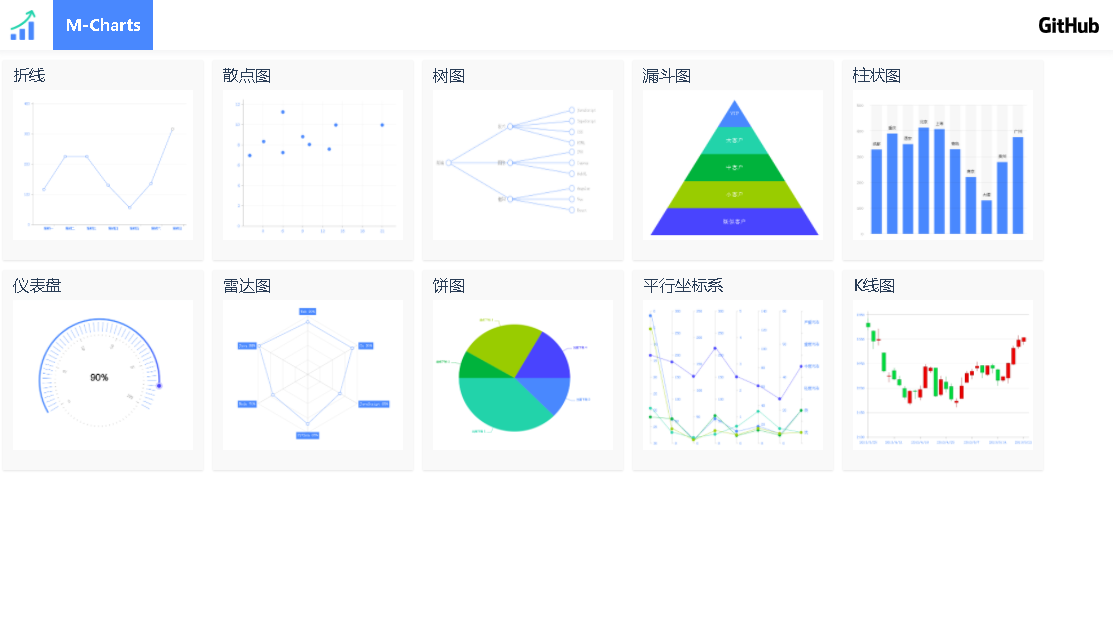
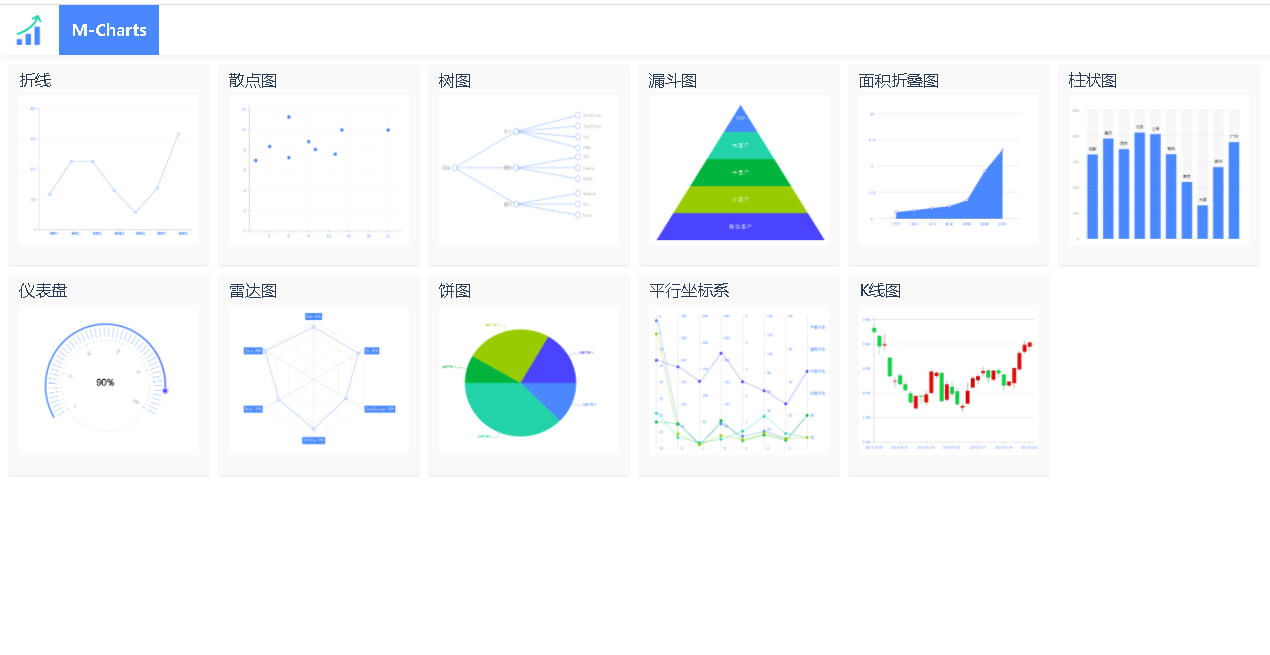
update

diff --git a/src/charts/shape/area-stacked/area-stacked.tsx b/src/charts/shape/area-stacked/area-stacked.tsx
@@ -20,22 +20,7 @@ class AreaStackedComponent extends React.Component {
     }
 
     initData() {
-        this.data = [{
-            name: '亚洲',
-            data: [502, 635, 809, 947, 1402, 3634, 5268]
-        }, {
-            name: '非洲',
-            data: [106, 107, 111, 133, 221, 767, 1766]
-        }, {
-            name: '欧洲',
-            data: [163, 203, 276, 408, 547, 729, 628]
-        }, {
-            name: '美洲',
-            data: [18, 31, 54, 156, 339, 818, 1201]
-        }, {
-            name: '大洋洲',
-            data: [2, 2, 2, 6, 13, 30, 46]
-        }]
+        this.data = [502, 635, 809, 947, 1402, 3634, 5268]
 
         this.config = {
             startX: 50.5,
@@ -75,48 +60,82 @@ class AreaStackedComponent extends React.Component {
         let yLen = this.config.yAxis.categories.length || 1; 
         let w = Number((this.config.W / xLen).toFixed(2));
         let h = Number((this.config.H / yLen).toFixed(2));
-
         let beginX = this.config.startX;
         let endX = this.config.startX + this.config.W;
         let beginY = this.config.startY;
 
-        this.ctx.beginPath();
-        this.ctx.strokeStyle = 'rgba(0,0, 0, 0.2)';
+        this.ctx.strokeStyle = 'rgba(0,0, 0, 0.1)';
         this.ctx.textBaseline = 'middle';
         this.ctx.textAlign = "right";
         this.ctx.font = "14px serif";    
         this.ctx.fillStyle = '#4988FE';
-
-        this.ctx.textBaseline = 'top';
         this.ctx.textAlign = "center";
 
+        this.ctx.beginPath();
+        this.ctx.textBaseline = 'top';
         // 绘制竖轴
         for(let i=0;i<xLen -1;i++)  {
             let _w = beginX + (i+1) * w;
-
             // 竖轴
             this.ctx.moveTo(_w,  beginY);
             this.ctx.lineTo(_w, beginY + this.config.labWidth / 2);
-
             // 竖轴Lab
             this.ctx.fillText(this.config.xAxis.categories[i], _w, beginY + this.config.labWidth  );
         }
-
-
+        this.ctx.textBaseline = 'middle';
         // 绘制横轴
         for(let i=0;i<yLen;i++) {
             let _h = beginY - h * i;
-            
             // 横轴
             this.ctx.moveTo(beginX,  _h);
             this.ctx.lineTo(endX, _h);
-
             // 横轴Lab
-            this.ctx.fillText(this.config.yAxis.categories[i], beginX - this.config.labWidth, _h);
-        }
 
+            this.ctx.fillText(this.config.yAxis.categories[i], beginX - 2 * this.config.labWidth, _h);
+        }
         this.ctx.stroke();
-       
+
+        // 绘制数据
+        let len = this.data.length;
+        let vals = [];
+
+        for(let i=0;i<len;i++) {
+            vals[i] = this.data[i]  / 1000;
+        }
+      
+        this.ctx.fillStyle = '#4988FE';
+        let points = [];
+        for(let i=0;i<len;i++) {
+            let _h = beginY - vals[i] * this.config.H / 10;
+            let _w = beginX + (i+1) * w;
+            if(!i) {
+                this.ctx.moveTo(_w,  beginY);
+            }
+            this.ctx.lineTo(_w , _h);
+            points.push([_w, _h])
+            if(i === len -1) {
+                this.ctx.lineTo(_w,  beginY);
+                this.ctx.lineTo(beginX + w,  beginY);
+            }
+
+        }
+        this.ctx.fill();
+        this.ctx.stroke();
+
+        
+        for(let i=0;i<points.length;i++) {
+            let point = points[i];
+            let _w = point[0];
+            let _h = point[1];
+            this.ctx.beginPath(); 
+            this.ctx.arc(_w , _h, 4, 0, 2 * Math.PI);
+            this.ctx.fillStyle="#fff"; 
+            this.ctx.lineWidth = 1;
+            this.ctx.strokeStyle = "#4944FE";
+            this.ctx.closePath(); 
+            this.ctx.fill();
+            this.ctx.stroke();  
+        }
     }
 
     render() {

diff --git a/src/pages/charts-list/charts-list.tsx b/src/pages/charts-list/charts-list.tsx
@@ -12,6 +12,7 @@ let imgRadar = require('./../../assets/imgs/shape/radar.png');
 let imgParallel = require('./../../assets/imgs/shape/parallel.png');
 let imgTree = require('./../../assets/imgs/shape/tree.png');
 let imgCandlestick = require('./../../assets/imgs/shape/candlestick.png');
+let imgAreaStartk = require('./../../assets/imgs/shape/area-stacked.png');
 
 class ChartsList extends React.Component<{}, object>  {
     charts:any[] = [
@@ -35,6 +36,11 @@ class ChartsList extends React.Component<{}, object>  {
             name:"漏斗图",
             type:'funnel',
             thumbnail: imgFunnel
+        },    
+        {
+            name:"面积折叠图",
+            type:'areaStartk',
+            thumbnail: imgAreaStartk
         }, 
         {
             name:"柱状图",
@@ -65,12 +71,7 @@ class ChartsList extends React.Component<{}, object>  {
             name:"K线图",
             type:'candlestick',
             thumbnail: imgCandlestick
-        },    
-        {
-            name:"面积折叠图",
-            type:'areaStartk',
-            thumbnail: imgCandlestick
-        } 
+        }
     ]
     render() {
         const items = this.charts.map((item:any) => {

diff --git a/README.md b/README.md
@@ -25,13 +25,17 @@ npm run dev
 
 ## 已经实现Chart类型
 
-- 饼图图
-- 折线图
-- 散点图
-- 仪表盘
-- 漏斗图
-- 柱状图
-- 雷达图
+1. 饼图图
+2. 折线图
+3. 散点图
+4. 仪表盘
+5. 漏斗图
+6. 柱状图
+7. 雷达图
+8. 树图
+9. 面积折叠图
+10. 平行坐标系
+11. K线图
 
 ## TODO List 
 
